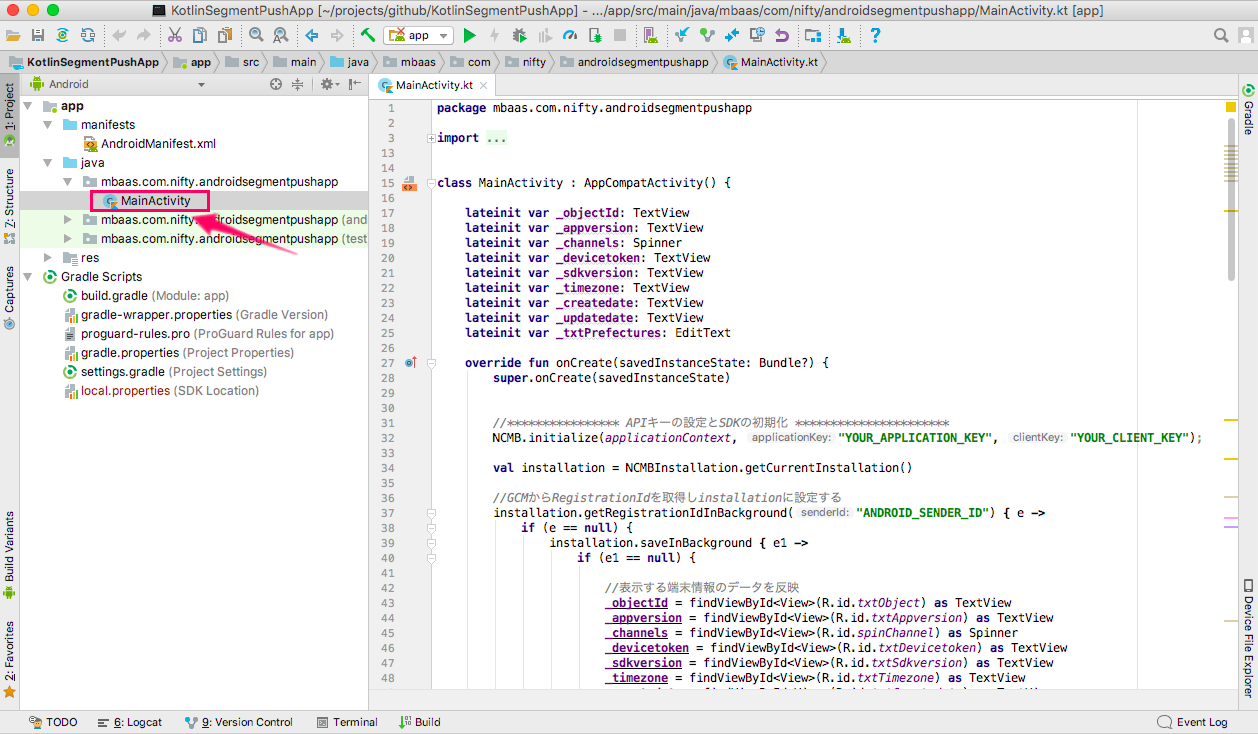
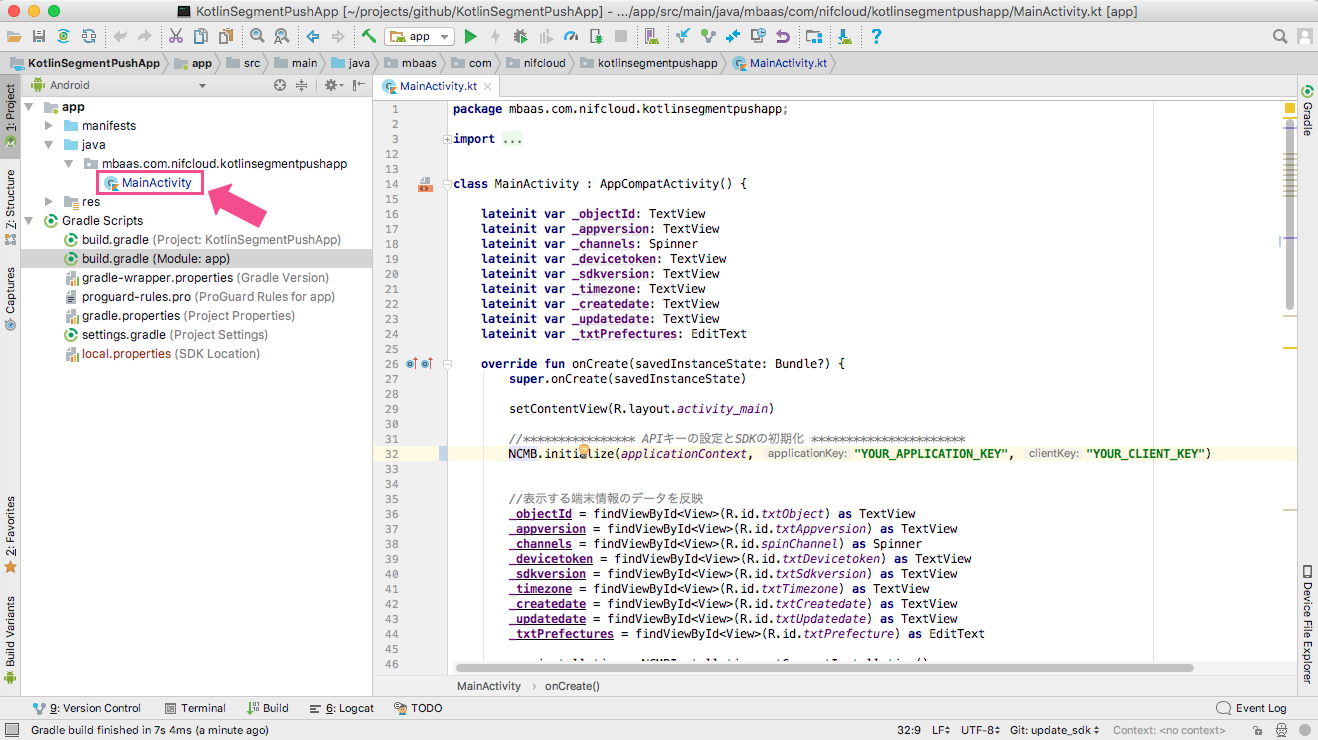
update

Changed region(s): [[0.0, 0.0, 1.0, 1.0], [0.961, 0.1199, 1.0, 0.2698], [0.961, 0.3896, 0.9921, 0.4196]]

diff --git a/app/src/main/java/mbaas/com/nifcloud/kotlinsegmentpushapp/MainActivity.kt b/app/src/main/java/mbaas/com/nifcloud/kotlinsegmentpushapp/MainActivity.kt
@@ -29,8 +29,7 @@ class MainActivity : AppCompatActivity() {
         setContentView(R.layout.activity_main)
 
         //**************** APIキーの設定とSDKの初期化 **********************
[2 lines of base64/hex data omitted]
+        NCMB.initialize(applicationContext, "YOUR_APPLICATION_KEY", "YOUR_CLIENT_KEY")
 
 
         //表示する端末情報のデータを反映
